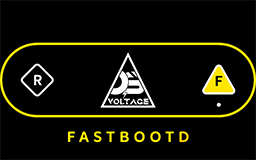
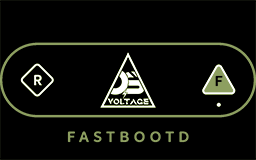
recovery_ui: update color scheme for better UX

diff --git a/recovery_ui/screen_ui.cpp b/recovery_ui/screen_ui.cpp
@@ -592,13 +592,13 @@ void ScreenRecoveryUI::SetColor(UIElement e) const {
       if (fastbootd_logo_enabled_)
         gr_color(0xfd, 0xd8, 0x35, 255);
       else
-        gr_color(0xff, 0xff, 0x00, 255);
+        gr_color(0x8a, 0x9a, 0x5b, 255);
       break;
     case UIElement::HEADER:
       if (fastbootd_logo_enabled_)
         gr_color(0xfd, 0xd8,0x35, 255);
       else
-        gr_color(0xff, 0xff, 0x00, 255);
+        gr_color(0x8a, 0x9a, 0x5b, 255);
       break;
     case UIElement::MENU:
       gr_color(0xd8, 0xd8, 0xd8, 255);
@@ -608,7 +608,7 @@ void ScreenRecoveryUI::SetColor(UIElement e) const {
       if (fastbootd_logo_enabled_)
         gr_color(0xe6, 0x51, 0x00, 255);
       else
-        gr_color(0xff, 0xff, 0x00, 255);
+        gr_color(0x8a, 0x9a, 0x5b, 255);
       break;
     case UIElement::MENU_SEL_BG_ACTIVE:
       gr_color(0, 254, 230, 0);
